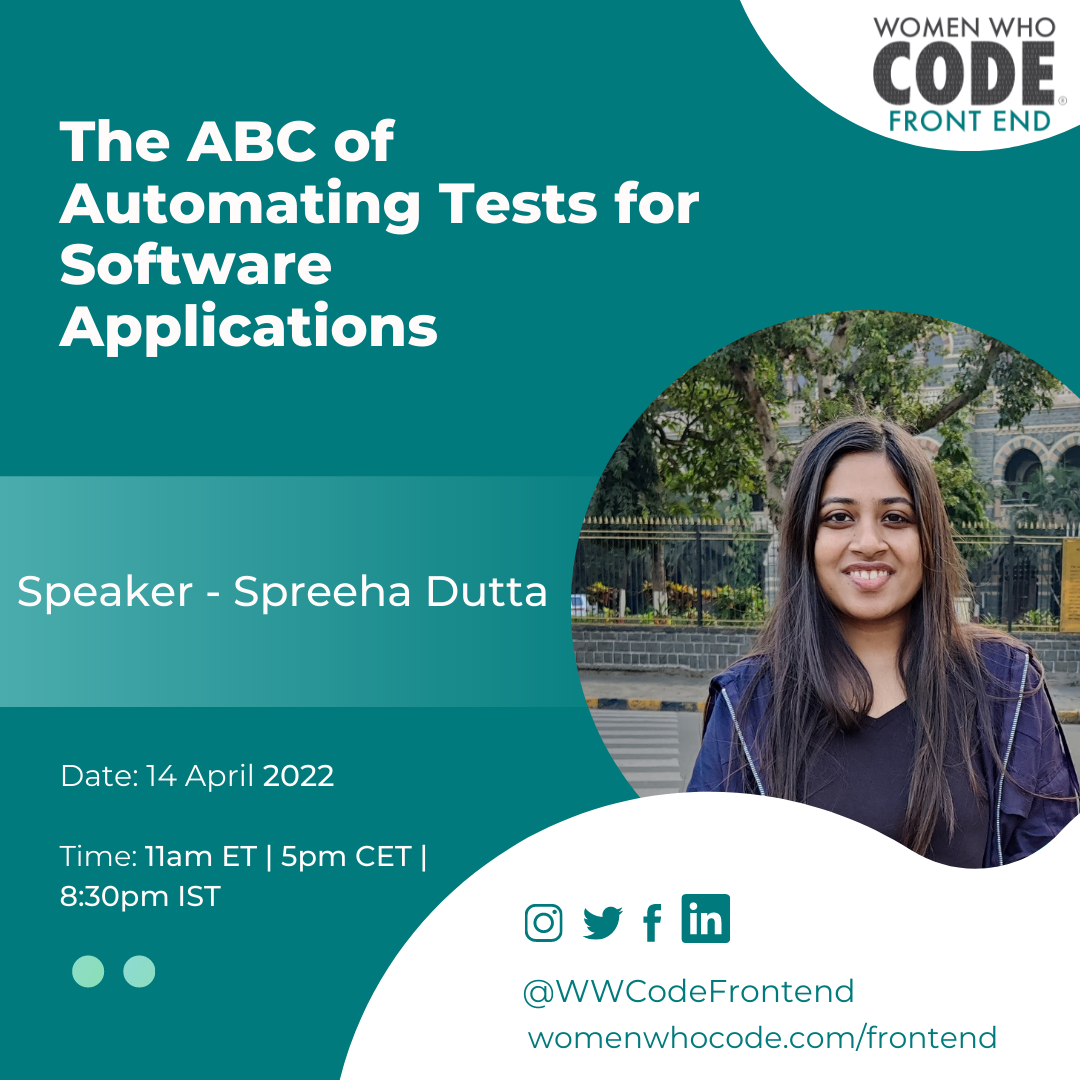
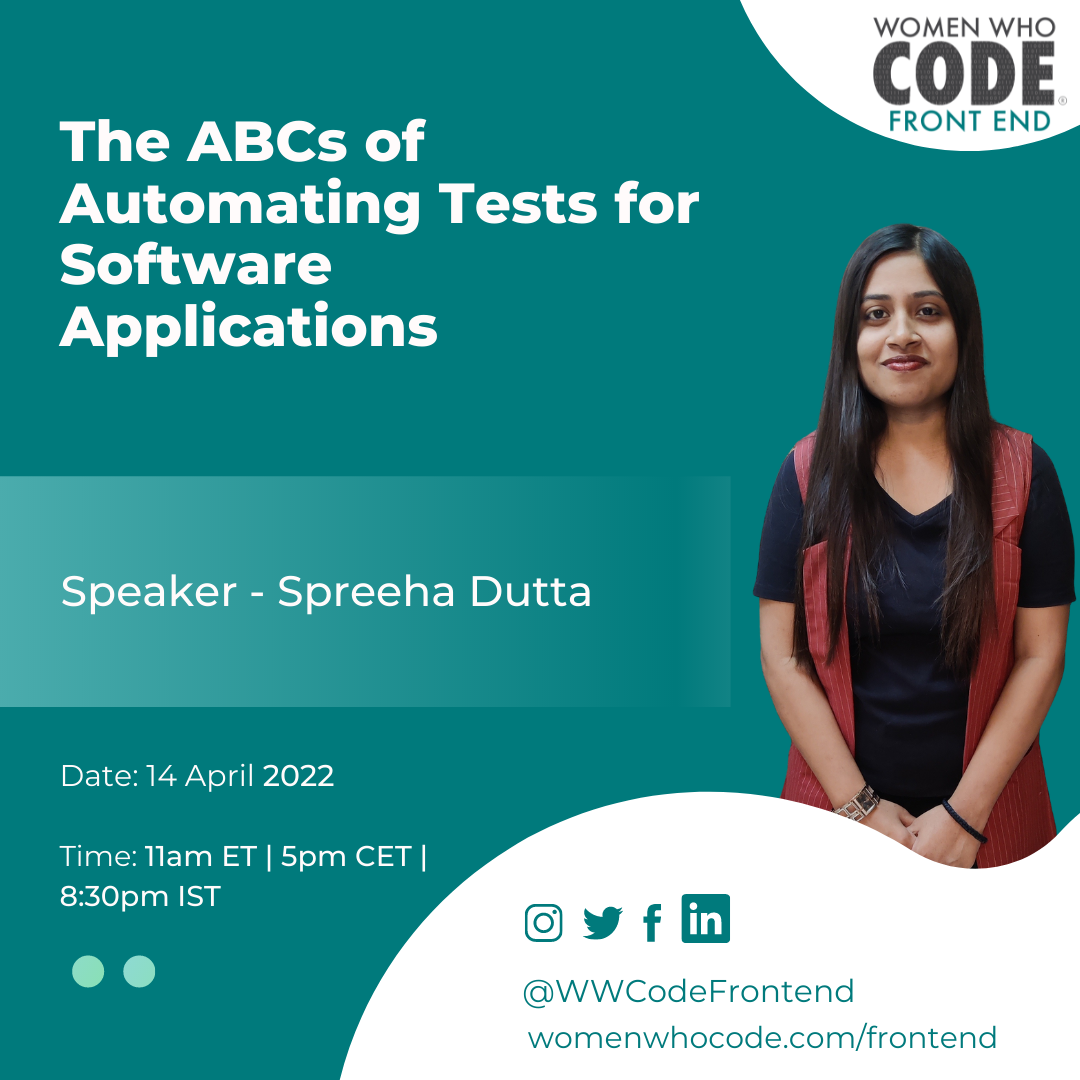
updated spreeha image

Changed region(s): [[0.0, 0.1833, 1.0, 0.825], [0.275, 0.0917, 0.3972, 0.1528]]

diff --git a/content/blog/april-14-spreeha-dutta/index.md b/content/blog/april-14-spreeha-dutta/index.md
@@ -2,15 +2,15 @@
 title: Apr 14 2022, Spreeha Dutta
 date: "2022-04-14"
 time: "2022-04-14 17:00"
-description: "The ABC of Automating Tests for Software Applications"
+description: "The ABCs of Automating Tests for Software Applications"
 contentType: "slides"
 author: "WWCodeFrontend"
 tags: ["2022", "april-2022", "webinar"]
 ---
 
-![Spreeha Dutta - The ABC of Automating Tests for Software Applications](./spreeha-dutta.png)
+![Spreeha Dutta - The ABCs of Automating Tests for Software Applications](./spreeha-dutta.png)
 
-## The ABC of Automating Tests for Software Applications
+## The ABCs of Automating Tests for Software Applications
 
 In this session Spreeha Dutta will talk about how to identify which test scenarios to automate in a software application, writing test scripts and automating test scenarios.
 
